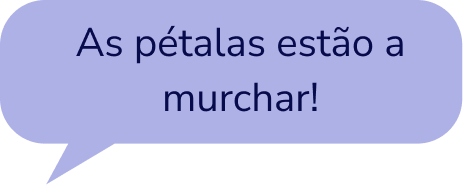
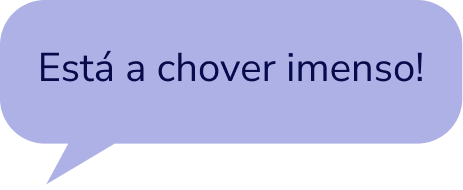
updates

Changed region(s): [[0.0907, 0.1316, 0.9374, 0.6053]]

diff --git a/js/rosa.js b/js/rosa.js
@@ -11,7 +11,8 @@ document.addEventListener("DOMContentLoaded", function () {
     const balaoFalas = [
         { id: "balao-fala1_dir", objeto: "cupula" },
         { id: "balao-fala2_esq", objeto: "regador" },
-        { id: "balao-fala3_esq", objeto: "sol" }
+        { id: "balao-fala3_esq", objeto: "sol" },
+        { id: "balao-fala4_esq", objeto: "guarda-chuva" }
     ];
 
     const posicoesFinais = {
@@ -26,7 +27,6 @@ document.addEventListener("DOMContentLoaded", function () {
     const musicaFundo = document.getElementById("background-music-jogo");
     const rosa = document.getElementById("rosa");
 
-    // Inicia música de fundo se ativada no localStorage
     if (localStorage.getItem("somAtivo") === "true") {
         musicaFundo.volume = 0.5;
         musicaFundo.play().catch(e => {
@@ -100,6 +100,29 @@ document.addEventListener("DOMContentLoaded", function () {
         intervaloRosa = null;
     }
 
+    // 💧 Funções de chuva
+    const chuvaContainer = document.createElement("div");
+    chuvaContainer.id = "chuva";
+    document.body.appendChild(chuvaContainer);
+
+    function iniciarChuva() {
+        chuvaContainer.innerHTML = '';
+        chuvaContainer.style.display = 'block';
+
+        for (let i = 0; i < 100; i++) {
+            const pingo = document.createElement("div");
+            pingo.className = "pingo";
+            pingo.style.left = `${Math.random() * 100}vw`;
+            pingo.style.animationDelay = `${Math.random() * 2}s`;
+            chuvaContainer.appendChild(pingo);
+        }
+    }
+
+    function pararChuva() {
+        chuvaContainer.innerHTML = '';
+        chuvaContainer.style.display = 'none';
+    }
+
     function mostrarBalao(etapa) {
         balaoFalas.forEach(({ id }) => {
             const el = document.getElementById(id);
@@ -112,6 +135,9 @@ document.addEventListener("DOMContentLoaded", function () {
 
         if (falaAtual.objeto === "cupula") iniciarAnimacaoRosa();
         else pararAnimacaoRosa();
+
+        if (falaAtual.objeto === "guarda-chuva") iniciarChuva();
+        else pararChuva();
     }
 
     mostrarBalao(etapaAtual);

diff --git a/css/rosa.css b/css/rosa.css
@@ -29,6 +29,16 @@
   z-index: 5;
 }
 
+/* Está a chover imenso! */
+#balao-fala4_esq {
+  position: fixed;
+  left: 65%;
+  bottom: 55%;
+  width: 15vw;
+  height: auto;
+  z-index: 5;
+}
+
 /* Objetos */
 .objetos {
   z-index: 4;
@@ -154,5 +164,37 @@ body {
   }
   50% {
     opacity: 1;
+  }
+}
+
+#chuva {
+  position: fixed;
+  top: 0;
+  left: 0;
+  width: 100%;
+  height: 100%;
+  pointer-events: none;
+  z-index: 3;
+  display: none;
+  overflow: hidden;
+}
+
+.pingo {
+  position: absolute;
+  top: -20px; /* Inicialmente fora da tela */
+  width: 2px;
+  height: 20px;
+  background: rgba(255, 255, 255, 0.7);
+  animation: cair 1s linear infinite;
+}
+
+@keyframes cair {
+  0% {
+    top: -20px; /* Começa fora da tela no topo */
+    opacity: 1;
+  }
+  100% {
+    top: 100vh; /* Vai até o final da tela */
+    opacity: 0;
   }
 }

diff --git a/rosa.html b/rosa.html
@@ -60,6 +60,8 @@
     <img src="imagens/rosa/baloes-fala/balao-fala1_dir.png" alt="balao-fala1" id="balao-fala1_dir">
     <img src="imagens/rosa/baloes-fala/balao-fala2_esq.png" alt="balao-fala2" id="balao-fala2_esq">
     <img src="imagens/rosa/baloes-fala/balao-fala3_esq.png" alt="balao-fala3" id="balao-fala3_esq">
+    <img src="imagens/rosa/baloes-fala/balao-fala4_esq.png" alt="balao-fala4" id="balao-fala4_esq">
+
 
     <div class="ajuda" >
       <img  src="imagens/icones/help-icon g.png" onclick="myPopUp()"> 
